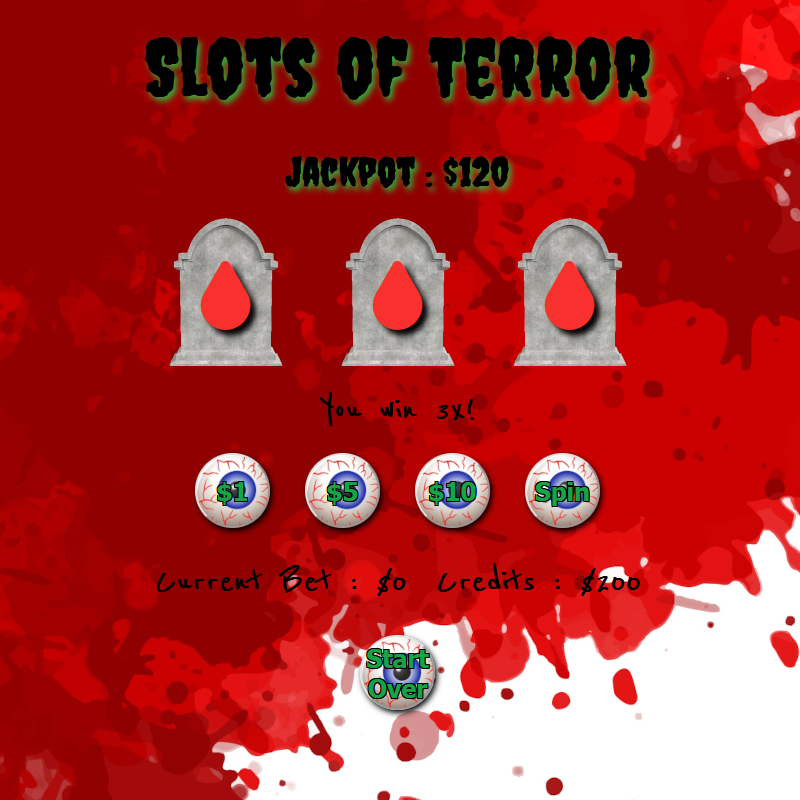
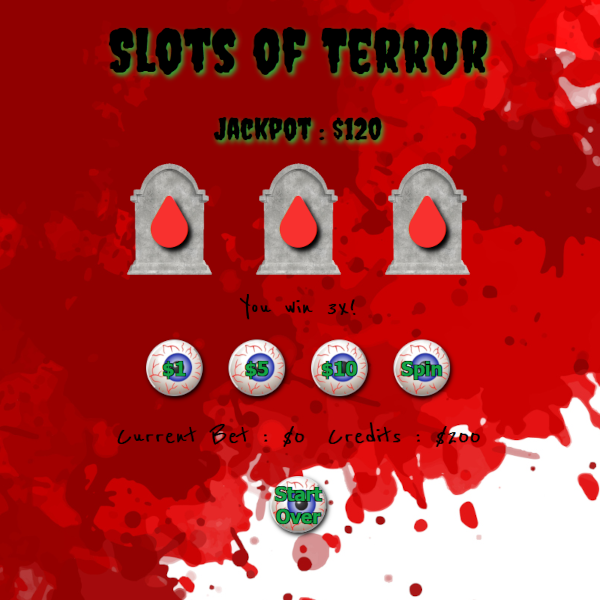
add animation

diff --git a/index.html b/index.html
@@ -16,7 +16,7 @@
 </head>
 <body>
   <h1>Slots of Terror</h1>
-  <h2 id="jackpot">Jackpot</h2>
+  <h2 id="jackpot" class="animate__animated animate__pulse animate__infinite">Jackpot</h2>
   <section class="container">
     <div class="slots" id="img1"></div>
     <div class="slots" id="img2"></div>

diff --git a/README.md b/README.md
@@ -20,9 +20,10 @@ Classic slot machine with a horrific twist. Place your bet and spin to test your
 
 ## Next Steps :
 
-- [ ] Add animation
+- [x] Add animation
 - [x] Spooky sounds
 - [ ] Jackpot madness
+- [ ] Mobile view
 
 ### Credits
 
